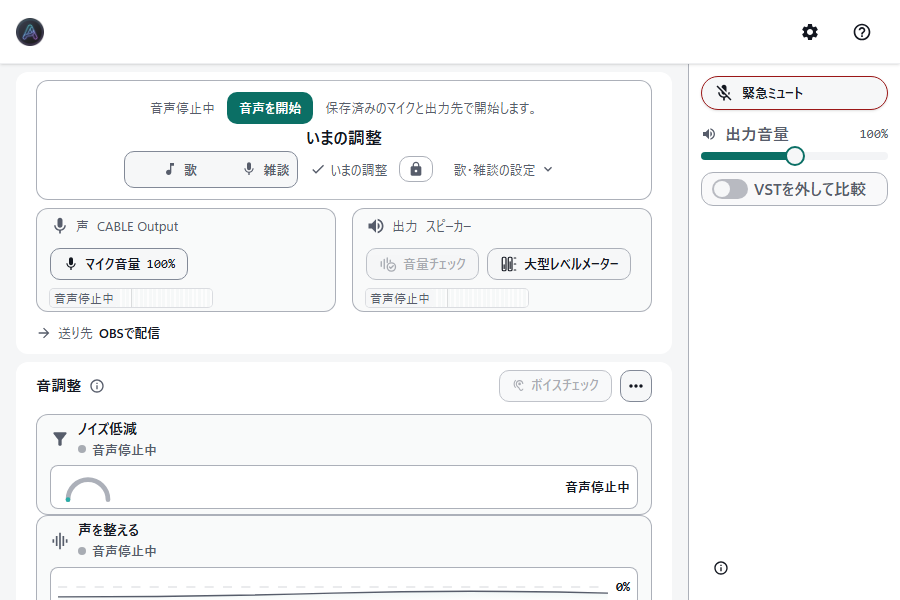
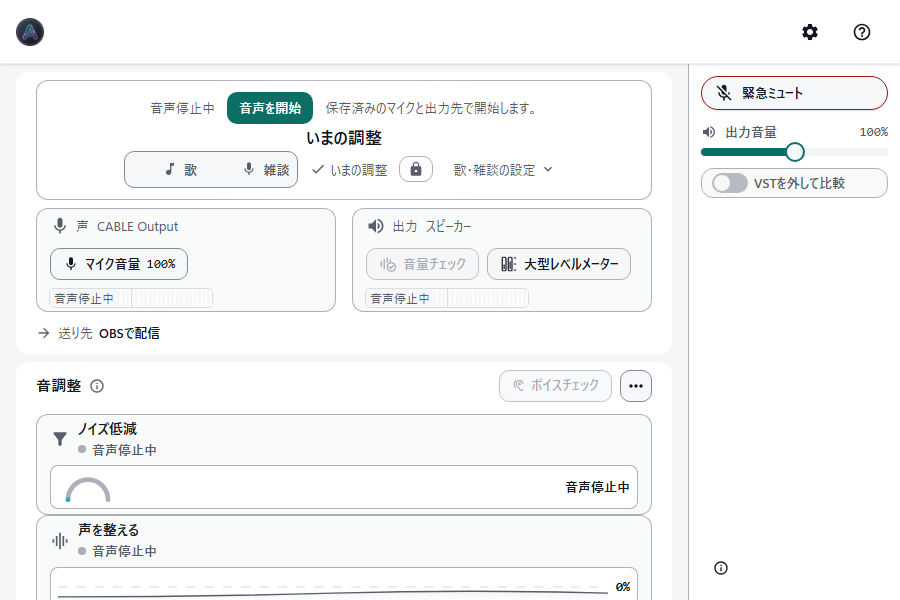
docs: 段階 A の実装済みの範囲と通知の行の置き場所を正し、画面を撮り直す
DESIGN.md 10.1 の実装済みの範囲を、3操作の移動とフッターの廃止に限って書く。通知が出ても右の列を動かさないことを 2.5 に記す。
実装計画の 3.2 を直し、右パネルを横に並べる境目を変えていないことを、残した点として記す。
手順書の「フッター」の1行を直す。

Changed region(s): [[0.7778, 0.21, 0.9956, 0.33], [0.9644, 0.21, 0.9956, 0.24]]

diff --git a/docs/plans/DESIGN_RENEWAL_IMPLEMENTATION.md b/docs/plans/DESIGN_RENEWAL_IMPLEMENTATION.md
@@ -34,6 +34,8 @@
 
 **段階 A の実装で分かったこと（2026-11-12）**：切り替えの境目は、文書では780pxと書かれていたが、実装は内側の幅720pxだった。右の列を入れると、配信・通話の最小 960×640 で内側の幅が666pxになり、1列に切り替わって3つ目が画面の下へ回った。段階 A で境目を660pxに下げ、最小サイズでも3列を保つようにした。この境目のまま C でレールを入れると、1024×768 の内側の幅は約664pxで、余裕は4pxしかない。C の前に B でホームを刷新する順は変えない。
 
+**段階 A で残した点**：幅1200px以上で右パネルをホームの横に並べる境目は変えていない。右の列の分、幅1200〜1411pxでパネルを開くと中央が以前より212px狭く、幅1222〜1374pxでは音調整が1列になる。境目を1412pxへ上げるか、右パネルがなくなる段階 F まで残すかは、利用者の判断を待つ。
+
 D〜H の詳細は、前の段階の結果を見てから書く。
 
 ## 3. 段階 A：右の本番中の操作の列
@@ -57,7 +59,7 @@ A で動かさないもの：ヘッダーのそのほか（ロゴ、状態、設
 
 ### 3.2 配置
 
-- `AppShell.tsx` の `.workspace-body`（ホームと右パネルを入れている行）の右隣に、`<aside aria-label="本番中の操作">` を置く。ヘッダーと通知の行の下、窓の下端まで。
+- `AppShell.tsx` の `.workspace-body`（ホームと右パネルを入れている行）の右隣に、`<aside aria-label="本番中の操作">` を置く。ヘッダーの直下から窓の下端まで。通知の行は中央の列の中に置き、通知が出ても右の列を動かさない（最初の計画では「通知の行の下」としていたが、緊急ミュートを押すと出る通知で列が下へ動くため、PR 前のレビューを受けて直した）。
 - 幅は212pxで固定する。背景は `card`、左に境界線1本。
 - 右パネルの重ね表示と暗幕は、これまでどおり中央の作業領域だけを覆う。右の列は覆わず、操作できるままにする。
 - 列の中は上から、緊急ミュート、出力（メーターを出す条件のときはメーター、出力音量）、VST を外して比較、余白、状態の表示と詳細の入口。

diff --git a/docs/TESTING.md b/docs/TESTING.md
@@ -314,7 +314,7 @@ OTTをインストールした環境では、`src-tauri`で `cargo test --locked
 - 接続診断もガイドと同じく、受け側の音声処理を一つずつ比較・試聴するよう案内し、一律OFFを勧めない。
 - 最小900×600と初期1024×768を維持する。停止案内・空ラックを小さくし、詳細表示の未使用の音量チェックは畳む。必要な入口とミュート・ゲイン・レベル・状態を残す。
 - 音量チェックは非表示でも停止応答を待ち、停止失敗の警告・再試行は隠さない。再表示だけでは測定を始めない。
-- フッターの「音声の詳細」から遅延の内訳・レート・バッファ・VST数へ到達でき、Escapeで元のボタンへ戻る。停止中の設定値を稼働中の実値として表示しない。
+- 右の列の「音声の詳細」から遅延の内訳・レート・バッファ・VST数へ到達でき、Escapeで元のボタンへ戻る。停止中の設定値を稼働中の実値として表示しない。
 
 削除失敗・再試行、音量チェックの停止と非表示、詳細の開閉は自動テスト。画面の収まりは実アプリで100%／200%を確認し、実VST・実音声での検証と区別する。
 
